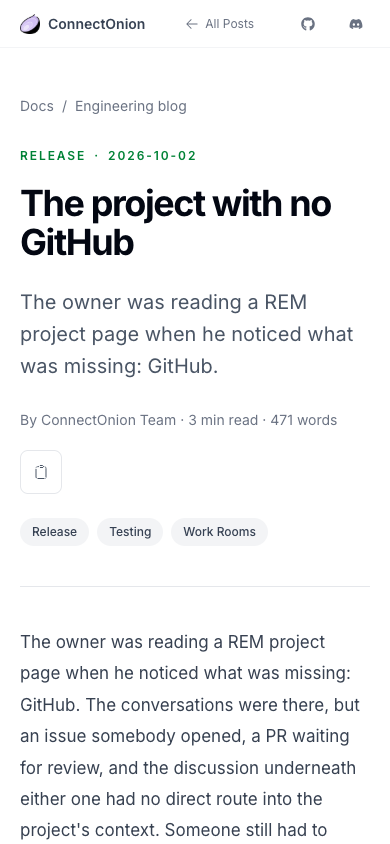
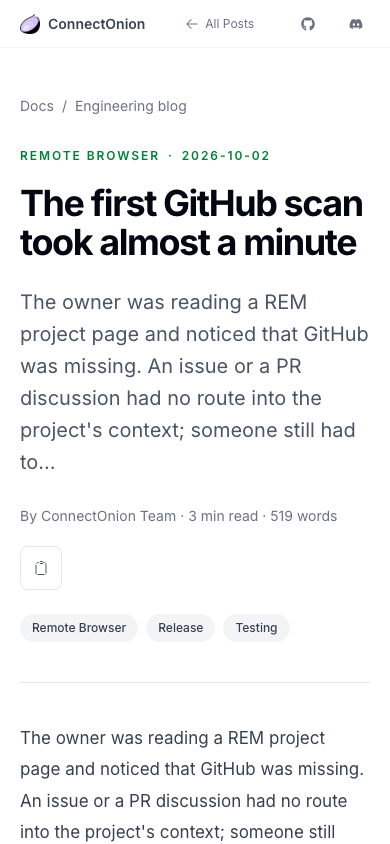
docs(blog): center the GitHub journal on the measured scan cost

diff --git a/public/blog/2026-10-02-the-project-with-no-github.md b/public/blog/2026-10-02-the-project-with-no-github.md
@@ -1,17 +1,17 @@
-# The project with no GitHub
+# The first GitHub scan took almost a minute
 
-The owner was reading a REM project page when he noticed what was missing: GitHub. The conversations were there, but an issue somebody opened, a PR waiting for review, and the discussion underneath either one had no direct route into the project's context. Someone still had to notice them.
+The owner was reading a REM project page and noticed that GitHub was missing. An issue or a PR discussion had no route into the project's context; someone still had to notice it. He wanted the same first step as WhatsApp: a listener that puts messages in the inbox, then lets a consumer wake Codex or route the work.
 
-His proposed first step was smaller than another project-analysis feature: give GitHub a listener like WhatsApp, put its messages in the inbox, and let the next program decide what to do. That boundary already existed. The inbox keeps a record before handing it out, claims work for a consumer, and offers unfinished work again. GitHub needed a source adapter, not another queue.
+The first real catch-up scan made that small request feel less small. I pointed the adapter at the landing-page repository, starting from September 25. It collected 61 PR and comment records and saved its checkpoint. The scan took 58.09 seconds. Our proposed polling interval was 60 seconds. A listener that spends nearly a minute catching up has very little room to pretend that polling is immediate.
 
-The authentication question helped make the first version concrete. Could it use the same credentials as GitHub's official CLI? Calling `gh api` lets gh keep responsibility for the login, the credential store and environment tokens. Co only saves the repositories to watch. Nobody needs to paste a second copy of an access token into Co.
+The expensive part came from a question about reviews. Could the listener first find recently updated issues, then read only those PRs? That would keep a quiet repository cheap. I put an old closed PR into a test, left its issue update timestamp in 2020, and gave it a newly submitted review. A consumer still needed to see that review. Filtering candidates by the issue timestamp would discard the PR before asking for its reviews.
 
-Receiving events was less straightforward. Webhooks offer precise actions, but a laptop needs an address GitHub can reach, a separate signing secret and recovery for missed deliveries. Notifications are easy to poll, but a person's subscriptions do not cover everything in a repository. This preview implementation polls the repository resources instead and preserves source links and original Markdown. It can catch up after a restart while the content still exists. It cannot recover a comment created and deleted between scans. That limit belongs in the command's documentation.
+So the scan reads reviews for every PR, including closed ones. That is the uncomfortable boundary of this implementation: the case that prevents missed work also makes the collector expensive. The real scan gave us a number to attach to that tradeoff. I can call this an experimental listener for small repositories; I cannot claim it is ready to poll a large project's full review history every minute.
 
-The existing consumer exposed another difference. In a chat, its stdout is the answer to send back. A Codex task runner may print a long execution log. Sending that log as a PR comment would be a surprising consequence of attaching the runner. GitHub's consumer therefore handles work locally, and chat consumers gain an explicit `--no-reply` option for the same purpose.
+The owner had also asked whether Co could use GitHub's official CLI credentials. It can: the adapter calls `gh api`, leaving the login and credential store with gh. That solved setup, but it did not solve delivery. A successful API read is not yet work that another program can safely take. The listener records its first-start baseline before fetching, writes messages through the existing durable inbox, and advances the repository checkpoint only after the scan's pages and deliveries finish. Repeating the scan sees the same resource/version IDs instead of scheduling the same observation again.
 
-Tests exercise replay, equal timestamps, pagination, failed delivery and a review on an old closed PR whose issue timestamp never changed. That last case has a cost: this first implementation reads reviews for every PR. On a large repository, API usage may make polling too slow. A webhook transport is the next decision if measured scan time makes this adapter impractical; the inbox interface can stay the same.
+That gave us a useful stopping point. The listener can recover still-existing activity after downtime, and a local consumer receives the repository, issue or PR number, original content and source link. It keeps its execution log local. It cannot recover a comment created and deleted between polls, or reconstruct every intermediate edit. Those are consequences of reading snapshots, not promises another retry loop can fix.
 
-The visible entry points matter too. The README, documentation homepage and landing page each have a command logo wall. A command missing from one of them is harder to discover even when its help is correct. All three are now part of the repository's CLI audit checklist, with the corresponding documentation link checked alongside the logo.
+A webhook transport would change the collection side: precise actions could arrive without rereading every PR, but GitHub would need a reachable receiver, a separate signing secret and missed-delivery recovery. If larger-repository measurements make polling impractical, that is the next decision. The inbox and the program consuming it can stay where they are.
 
-This is a PR for a future preview, not an announcement that the package has shipped. REM will gain a GitHub source after this listener boundary is reviewed and exercised on real repositories.
+This PR prepares that boundary for a future preview. REM ingestion follows separately. The missing GitHub entry will also appear on the README, docs and landing-page walls, marked as upcoming; the sixty-second scan is why the label still matters.
